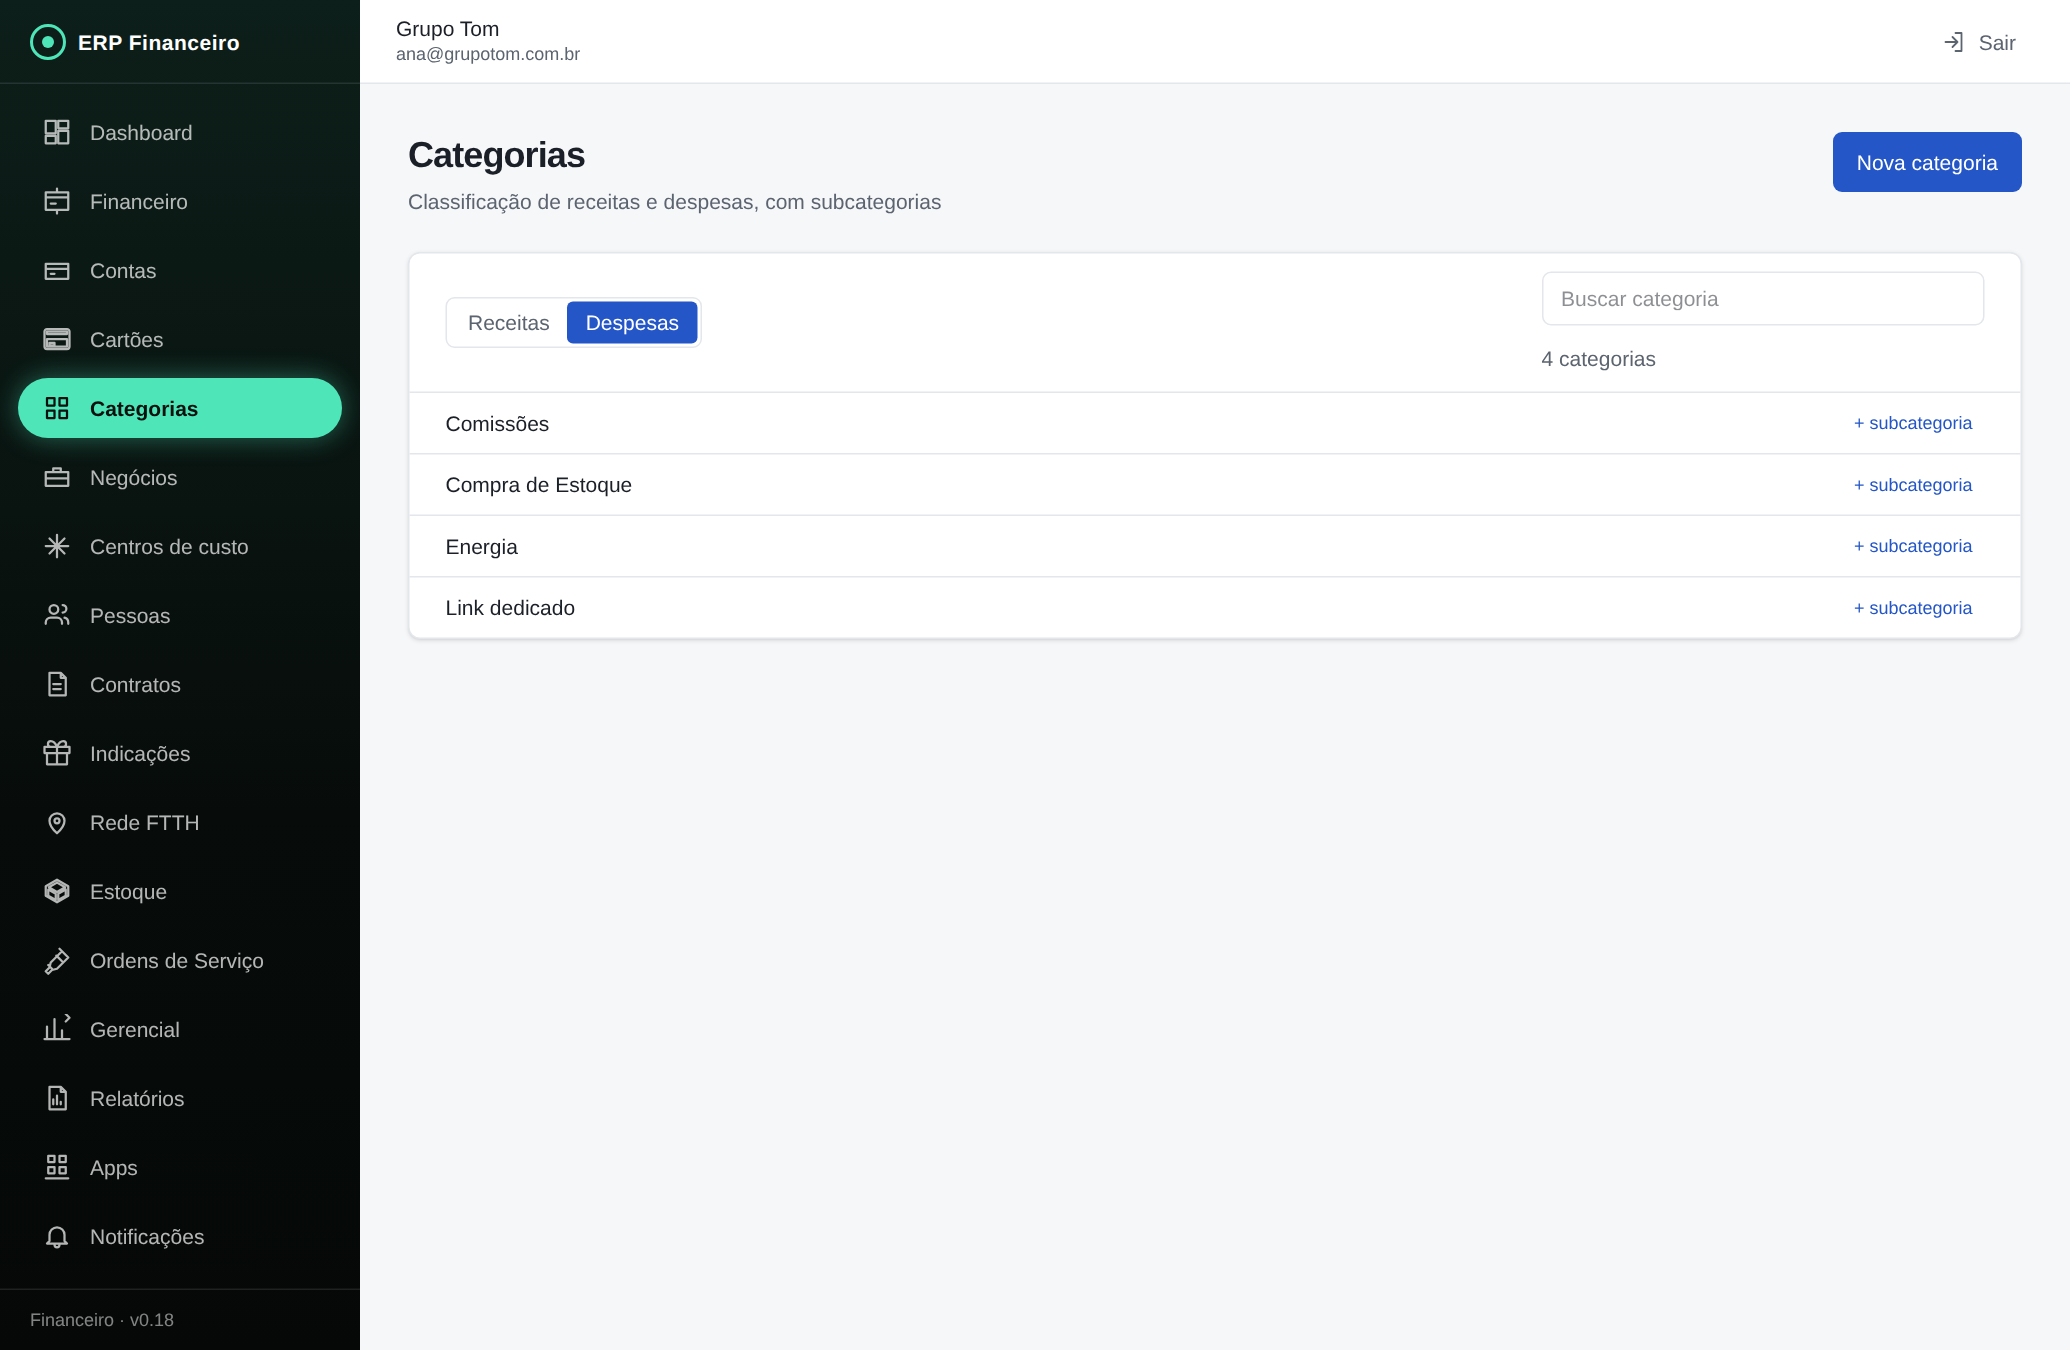
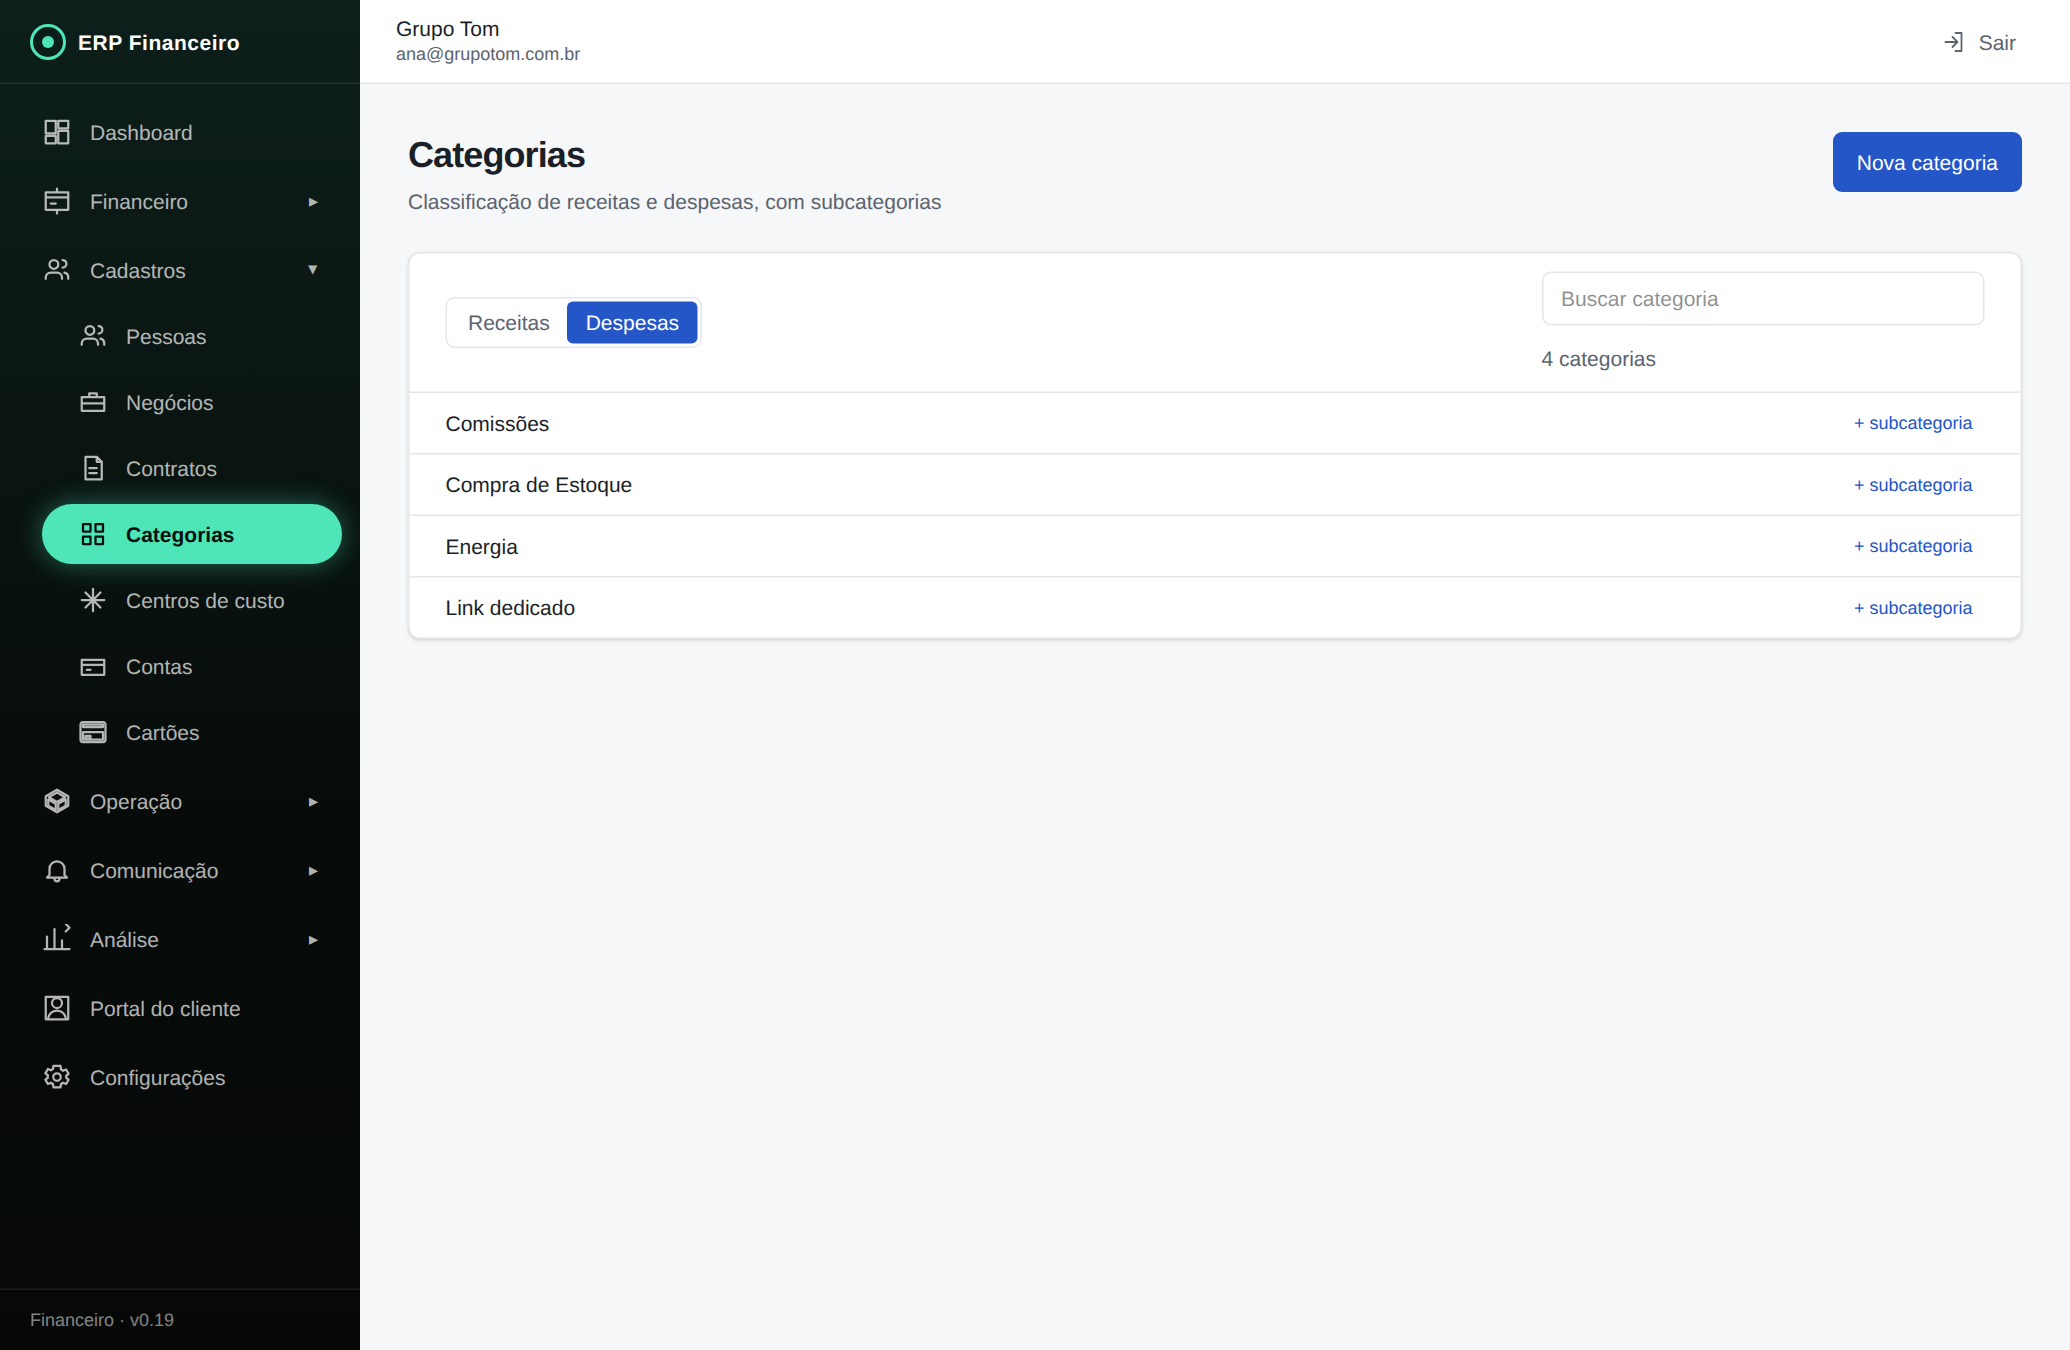
menu: Financeiro vira grupo colapsável, igual a Cadastros/Operação/…
Financeiro era um item raiz sempre expandido (pill verde sólido, sem
seta, submenu só visível dentro da própria rota) enquanto os outros
grupos do menu são botão + seta + colapsável. Agora usam o mesmo
cabeçalho: ▸/▾, fundo neutro, e o submenu abre/fecha independente da
navegação (mantém aberto sozinho quando uma rota dele está ativa).

Prints regerados (menu aparece em todas as telas).

Claude-Session: https://claude.ai/code/session_01LvKVVJXHUTGGnyzXpwt5fU

diff --git a/app/src/core/layout/BarraLateral.tsx b/app/src/core/layout/BarraLateral.tsx
@@ -32,7 +32,9 @@ export function BarraLateral({ modulos, grupos, raiz, aoNavegar }: {
     const proximo = { ...abertos, [id]: !abertos[id] }
     setAbertos(proximo); salvarAbertos(proximo)
   }
-  const estaAberto = (id: string) => abertos[id] ?? (grupoAtivo?.id === id)
+  // "aberto" também vale para um módulo com submenu (ex.: Financeiro) cuja rota está ativa;
+  // só cai no padrão (grupo ativo / rota ativa) enquanto o usuário nunca alternou esse item
+  const estaAberto = (id: string, rotaAtiva = false) => (id in abertos ? abertos[id] : (grupoAtivo?.id === id || rotaAtiva))
 
   const modulosRaiz = raiz.map((id) => porId.get(id)).filter(Boolean) as DefinicaoModulo[]
 
@@ -44,31 +46,62 @@ export function BarraLateral({ modulos, grupos, raiz, aoNavegar }: {
           end={m.rota === '/'}
           onClick={aoNavegar}
           className={({ isActive }) =>
-            `flex items-center gap-3 rounded-full ${indentado ? 'pl-6 pr-4' : 'px-4'} py-2.5 text-sm transition-all ${isActive ? 'font-semibold' : 'text-white/70 hover:bg-white/10 hover:text-white'}`
+            `flex items-center gap-3 rounded-full ${indentado ? 'ml-4 pl-6 pr-4' : 'px-4'} py-2.5 text-sm transition-all ${isActive ? 'font-semibold' : 'text-white/70 hover:bg-white/10 hover:text-white'}`
           }
           style={({ isActive }) => (isActive ? { backgroundColor: MENTA, color: '#08110d', boxShadow: `0 0 18px ${MENTA}66` } : undefined)}
         >
           <Icone nome={m.icone} className="size-5 shrink-0" />
           {m.titulo}
         </NavLink>
-        {m.submodulos && pathname.startsWith(m.rota) && (
-          <ul className={`mt-1 space-y-1 ${indentado ? 'pl-10' : 'pl-6'}`}>
-            {m.submodulos.map((s) => (
-              <li key={s.id}>
-                <NavLink
-                  to={s.rota}
-                  onClick={aoNavegar}
-                  className={({ isActive }) =>
-                    `block rounded-full border px-4 py-1.5 text-sm transition-all ${isActive ? 'font-medium' : 'border-transparent text-white/60 hover:text-white'}`
-                  }
-                  style={({ isActive }) => (isActive ? { backgroundColor: `${MENTA}22`, color: MENTA, borderColor: `${MENTA}55` } : undefined)}
-                >
-                  {s.titulo}
-                </NavLink>
-              </li>
-            ))}
-          </ul>
-        )}
+      </li>
+    )
+  }
+
+  /** Cabeçalho de grupo colapsável (mesmo visual para Cadastros/Operação/… e para um módulo raiz com submenu, ex.: Financeiro). */
+  function renderCabecalhoGrupo(titulo: string, icone: DefinicaoModulo['icone'], aberto: boolean, onToggle: () => void) {
+    return (
+      <button
+        type="button"
+        onClick={onToggle}
+        className="flex w-full items-center gap-3 rounded-full px-4 py-2.5 text-sm text-white/70 transition-all hover:bg-white/10 hover:text-white"
+        aria-expanded={aberto}
+      >
+        <Icone nome={icone} className="size-5 shrink-0" />
+        <span className="flex-1 text-left">{titulo}</span>
+        <span className={`text-xs transition-transform ${aberto ? 'rotate-90' : ''}`}>▸</span>
+      </button>
+    )
+  }
+
+  function renderSubitens(itens: { id: string; titulo: string; rota: string }[]) {
+    return (
+      <ul className="mt-1 space-y-1 pl-6">
+        {itens.map((s) => (
+          <li key={s.id}>
+            <NavLink
+              to={s.rota}
+              onClick={aoNavegar}
+              className={({ isActive }) =>
+                `block rounded-full border px-4 py-1.5 text-sm transition-all ${isActive ? 'font-medium' : 'border-transparent text-white/60 hover:text-white'}`
+              }
+              style={({ isActive }) => (isActive ? { backgroundColor: `${MENTA}22`, color: MENTA, borderColor: `${MENTA}55` } : undefined)}
+            >
+              {s.titulo}
+            </NavLink>
+          </li>
+        ))}
+      </ul>
+    )
+  }
+
+  /** Módulo raiz com submódulos (hoje só Financeiro): mesmo cabeçalho colapsável dos grupos. */
+  function renderModuloComSubmenu(m: DefinicaoModulo) {
+    const rotaAtiva = pathname.startsWith(m.rota)
+    const aberto = estaAberto(m.id, rotaAtiva)
+    return (
+      <li key={m.id}>
+        {renderCabecalhoGrupo(m.titulo, m.icone, aberto, () => toggle(m.id))}
+        {aberto && renderSubitens(m.submodulos!)}
       </li>
     )
   }
@@ -82,23 +115,15 @@ export function BarraLateral({ modulos, grupos, raiz, aoNavegar }: {
         <span className="text-sm font-semibold tracking-wide">ERP Financeiro</span>
       </div>
       <ul className="flex-1 space-y-1.5 overflow-y-auto p-3">
-        {modulosRaiz.filter((m) => m.id === 'dashboard' || m.id === 'financeiro').map((m) => renderModulo(m))}
+        {modulosRaiz.filter((m) => m.id === 'dashboard').map((m) => renderModulo(m))}
+        {modulosRaiz.filter((m) => m.id === 'financeiro' && m.submodulos).map((m) => renderModuloComSubmenu(m))}
         {grupos.map((g) => {
           const filhos = g.modulos.map((id) => porId.get(id)).filter(Boolean) as DefinicaoModulo[]
           if (filhos.length === 0) return null
           const aberto = estaAberto(g.id)
           return (
             <li key={g.id}>
-              <button
-                type="button"
-                onClick={() => toggle(g.id)}
-                className="flex w-full items-center gap-3 rounded-full px-4 py-2.5 text-sm text-white/70 transition-all hover:bg-white/10 hover:text-white"
-                aria-expanded={aberto}
-              >
-                <Icone nome={g.icone} className="size-5 shrink-0" />
-                <span className="flex-1 text-left">{g.titulo}</span>
-                <span className={`text-xs transition-transform ${aberto ? 'rotate-90' : ''}`}>▸</span>
-              </button>
+              {renderCabecalhoGrupo(g.titulo, g.icone, aberto, () => toggle(g.id))}
               {aberto && (
                 <ul className="mt-1 space-y-1">
                   {filhos.map((m) => renderModulo(m, true))}
